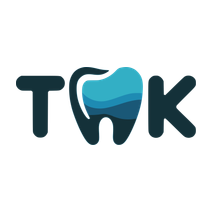
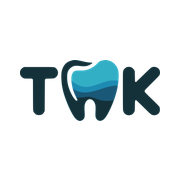
fix(pwa): icone con sfondo pieno (erano trasparenti e il sistema le rendeva nere) + limite del codice modificabile dopo l'invito

Changed region(s): [[0.0556, 0.3056, 0.9444, 0.6944], [0.4722, 0.5556, 0.5278, 0.5833], [0.5833, 0.4444, 0.6111, 0.4722]]

diff --git a/src/components/GestioneInviti.tsx b/src/components/GestioneInviti.tsx
@@ -2,7 +2,7 @@
 
 import { useState, useTransition } from "react";
 import { useRouter } from "next/navigation";
-import { creaCodiceInvito, disattivaCodiceInvito } from "@/app/actions-invito";
+import { aggiornaLimiteInvito, creaCodiceInvito, disattivaCodiceInvito } from "@/app/actions-invito";
 import { inviaInvitoGruppo } from "@/app/actions-onboarding";
 import type { Polo } from "@/lib/types";
 
@@ -201,6 +201,7 @@ export default function GestioneInviti({
                       {!i.utilizzabile && (
                         <span className="text-xs text-amber-700 md:mr-3">non più utilizzabile</span>
                       )}
+                      <ModificaLimite invito={i} />
                       <button
                         disabled={pending}
                         onClick={() =>
@@ -236,3 +237,89 @@ export default function GestioneInviti({
     </section>
   );
 }
+
+/**
+ * Limite di utilizzi e scadenza del codice attivo. Si cambiano SENZA
+ * rigenerare il codice: quello già mandato per email continua a valere (un
+ * codice nuovo lo invaliderebbe, e chi ha ricevuto il link resterebbe fuori).
+ * Il numero di utilizzi già fatti non si può abbassare.
+ */
+function ModificaLimite({ invito }: { invito: RigaInvito }) {
+  const router = useRouter();
+  const [aperto, setAperto] = useState(false);
+  const [maxUsi, setMaxUsi] = useState(invito.max_usi ? String(invito.max_usi) : "");
+  const [scadeIl, setScadeIl] = useState(invito.scade_il ? invito.scade_il.slice(0, 10) : "");
+  const [pending, start] = useTransition();
+  const [messaggio, setMessaggio] = useState<string | null>(null);
+  const [errore, setErrore] = useState<string | null>(null);
+
+  if (!aperto) {
+    return (
+      <button
+        onClick={() => setAperto(true)}
+        className="text-xs text-slate-400 hover:text-tt-blue hover:underline md:mr-3"
+      >
+        Limite e scadenza
+      </button>
+    );
+  }
+
+  return (
+    <div className="w-full text-left">
+      <div className="flex flex-wrap items-end gap-2">
+        <label className="text-xs text-slate-500">
+          Limite utilizzi
+          <input
+            value={maxUsi}
+            onChange={(e) => setMaxUsi(e.target.value)}
+            inputMode="numeric"
+            placeholder="illimitati"
+            className="ml-1 w-20 rounded border border-slate-300 px-2 py-1 text-xs"
+          />
+        </label>
+        <label className="text-xs text-slate-500">
+          Scade il
+          <input
+            type="date"
+            value={scadeIl}
+            onChange={(e) => setScadeIl(e.target.value)}
+            className="ml-1 rounded border border-slate-300 px-2 py-1 text-xs"
+          />
+        </label>
+        <button
+          disabled={pending}
+          onClick={() =>
+            start(async () => {
+              setErrore(null);
+              setMessaggio(null);
+              const esito = await aggiornaLimiteInvito(invito.id, {
+                maxUsi: maxUsi.trim() ? Number(maxUsi) : null,
+                scadeIl: scadeIl || null,
+              });
+              if (!esito.ok) {
+                setErrore(esito.errore);
+                return;
+              }
+              setMessaggio("Aggiornato.");
+              router.refresh();
+            })
+          }
+          className="tt-btn bg-tt-blue px-3 py-1.5 text-xs text-white disabled:opacity-50"
+        >
+          {pending ? "Salvo…" : "Salva"}
+        </button>
+        <button onClick={() => setAperto(false)} className="text-xs text-slate-400 hover:underline">
+          Chiudi
+        </button>
+      </div>
+      <p className="mt-1 text-xs text-slate-400">
+        Il codice resta lo stesso: chi ha già ricevuto il link continua a usarlo.
+        {invito.usi > 0 && ` Già usato ${invito.usi} ${invito.usi === 1 ? "volta" : "volte"}.`}
+        {" "}Vuoto = utilizzi illimitati, senza scadenza.
+      </p>
+      {messaggio && <p className="mt-1 text-xs text-emerald-700">{messaggio}</p>}
+      {errore && <p className="mt-1 text-xs text-red-600">{errore}</p>}
+    </div>
+  );
+}
+

diff --git a/src/app/actions-invito.ts b/src/app/actions-invito.ts
@@ -175,6 +175,57 @@ export async function creaCodiceInvito(
   return { ok: true, dati: { codice: data as string } };
 }
 
+/**
+ * Cambia limite di utilizzi e scadenza del codice ATTIVO di un gruppo, senza
+ * rigenerarlo: il codice già mandato per email (o condiviso a voce) continua a
+ * valere, quindi chi lo ha ricevuto non resta con un codice disattivato.
+ *
+ * Serve perché il limite scritto nella sezione Inviti vale solo nel momento in
+ * cui il codice nasce: su un codice già in giro non si poteva più intervenire.
+ * Il numero di utilizzi già fatti resta: non si può scendere sotto quello.
+ */
+export async function aggiornaLimiteInvito(
+  invitoId: string,
+  opzioni: { maxUsi: number | null; scadeIl: string | null },
+): Promise<Esito<{ codice: string; usi: number; maxUsi: number | null }>> {
+  const { isAdmin } = await requireSession();
+  if (!isAdmin) return { ok: false, errore: "Operazione non disponibile da qui." };
+
+  if (opzioni.maxUsi !== null && (!Number.isInteger(opzioni.maxUsi) || opzioni.maxUsi < 1)) {
+    return {
+      ok: false,
+      errore: "Il limite deve essere un numero intero di almeno 1 — oppure vuoto, per utilizzi illimitati.",
+    };
+  }
+
+  const supabase = await supabaseServer();
+  const { data: invito } = await supabase
+    .from("inviti")
+    .select("id, codice, usi")
+    .eq("id", invitoId)
+    .maybeSingle<{ id: string; codice: string; usi: number }>();
+  if (!invito) return { ok: false, errore: "Codice non trovato." };
+  if (opzioni.maxUsi !== null && opzioni.maxUsi < invito.usi) {
+    return {
+      ok: false,
+      errore: `Il codice è già stato usato ${invito.usi} ${invito.usi === 1 ? "volta" : "volte"}: il limite non può essere più basso.`,
+    };
+  }
+
+  // La scadenza è "fine giornata" del giorno scelto: come per l'accordo, il
+  // giorno indicato è ancora valido.
+  const scade = opzioni.scadeIl ? new Date(`${opzioni.scadeIl}T23:59:59`).toISOString() : null;
+
+  const { error } = await supabase
+    .from("inviti")
+    .update({ max_usi: opzioni.maxUsi, scade_il: scade })
+    .eq("id", invitoId);
+  if (error) return { ok: false, errore: error.message };
+
+  revalidatePath("/admin");
+  return { ok: true, dati: { codice: invito.codice, usi: invito.usi, maxUsi: opzioni.maxUsi } };
+}
+
 export async function disattivaCodiceInvito(invitoId: string): Promise<Esito> {
   const { isAdmin } = await requireSession();
   if (!isAdmin) return { ok: false, errore: "Operazione non disponibile da qui." };
